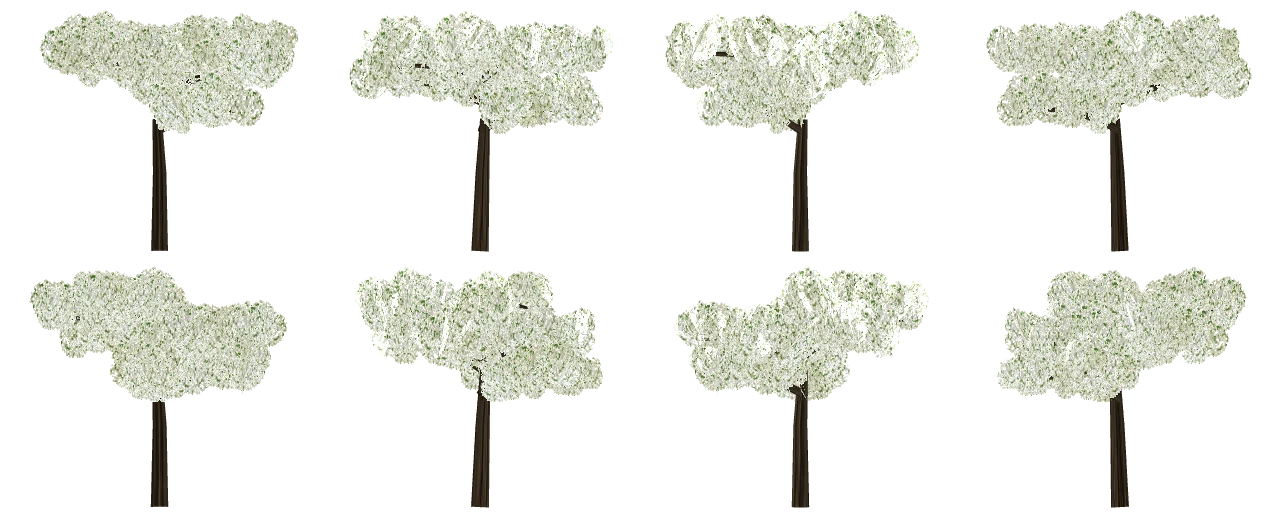
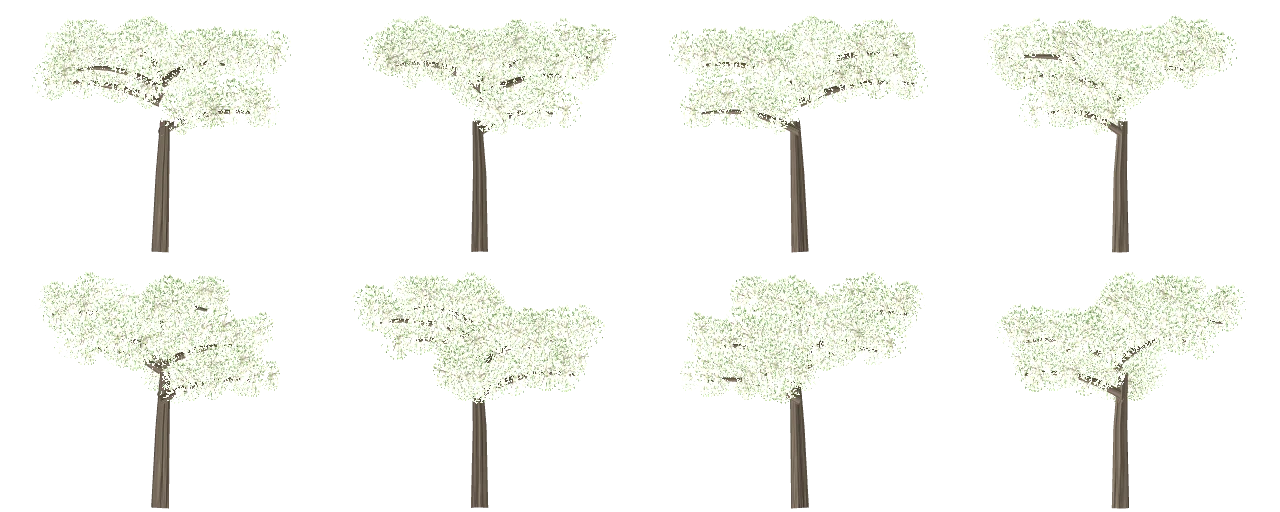
Add files via upload

diff --git a/ko.js b/ko.js
@@ -157,7 +157,7 @@ X.trees=function(A){const T=A.THREE,D=A.D,TR=A.TREES,TH=A.THASH;TR.length=0;TH.c
     D.tl=D.tl.concat(add);console.log('[ko] road screen trees',add.length);}
   for(const q of D.tl){const x=q[0],y=q[1],h=q[2],r=q[3],sp=SP[q[4]],u=hsh(x,y);
     let v=0;if(sp==='palm')v=Math.floor(u*2.999);else if(sp==='monkey')v=r/h>.72?1:0;else v=u<.5?0:1;
-    const t={x,y,gz:A.H(x,y),h,r,fir:sp==='cook',v,sp,hero:sp+v};/* 3D model near the golfer for every species (heroInit) */
+    const t={x,y,gz:A.H(x,y),h,r,fir:sp==='cook',v,sp,hero:sp==='palm'?'palm'+v:null};
     TR.push(t);L[sp].push(t);const R2=Math.ceil(t.r/10)+1,cx=Math.floor(x/10),cy=Math.floor(y/10);
     for(let i=-R2;i<=R2;i++)for(let j=-R2;j<=R2;j++){const k=(cx+i)+','+(cy+j);let a=TH.get(k);if(!a)TH.set(k,a=[]);a.push(t);}}
   const TL=new T.TextureLoader();
@@ -203,13 +203,10 @@ X.farWater=function(w,A){const T=A.THREE,D=A.D,S=D.sea,WM=window.__WM;
   const o=A.outer;if(o)o.position.y=Math.min(o.position.y,D.far.lakeH-3);console.log('[ko] ocean');};
 
 /* ---------- hero palms: full 3D coconut palms (the same models the impostors were baked from) near the golfer ---------- */
-X.heroInit=function(HERO,A){const T=A.THREE;
-  const mk=(me,N)=>{const geo=me.geometry.clone();geo.applyMatrix4(me.matrixWorld);const mt=me.material;mt.userData.lin=1;const M=A.IMC(new T.InstancedMesh(geo,mt,N));M.count=0;M.castShadow=false;M.receiveShadow=true;M.frustumCulled=false;A.scene.add(M);return M;};
-  const add=(tag,g,N,noYaw)=>{g.updateMatrixWorld(true);const ms=[];g.traverse(o=>{if(o.isMesh)ms.push(o);});if(ms.length<2)return;const B=mk(ms[0],N),L=mk(ms[ms.length-1],N),X=ms.slice(1,-1).map(me=>mk(me,N));HERO[tag]={B,L,X:X.length?X:null,h:1,N,k:1,noYaw};};
-  for(let v=0;v<3;v++)add('palm'+v,KOT.palm(T,v),6,true);
-  const MK={monkey:v=>KOT.monkey(T,v),cook:v=>KOT.cook(T,v),broad:v=>KOT.broad(T,v),plum:v=>KOT.plum(T,v),scrub:v=>KOT.broad(T,v,undefined,'scrub')};
-  let n=0;for(const sp in MK)for(let v=0;v<2;v++){try{add(sp+v,MK[sp](v),sp==='scrub'?8:5,false);n++;}catch(e){console.warn('[ko] hero '+sp+v,e);}}
-  console.log('[ko] hero palms ready, other species',n);};
+X.heroInit=function(HERO,A){const T=A.THREE;for(let v=0;v<3;v++){const g=KOT.palm(T,v);g.updateMatrixWorld(true);const ms=[];g.traverse(o=>{if(o.isMesh)ms.push(o);});
+    const mk=(me,N)=>{const geo=me.geometry.clone();geo.applyMatrix4(me.matrixWorld);const mt=me.material;mt.userData.lin=1;const M=A.IMC(new T.InstancedMesh(geo,mt,N));M.count=0;M.castShadow=false;M.receiveShadow=true;M.frustumCulled=false;A.scene.add(M);return M;};
+    HERO['palm'+v]={B:mk(ms[0],6),L:mk(ms[1],6),h:1,N:6,k:1,noYaw:true};}
+  console.log('[ko] hero palms ready');};
 
 /* ---------- ground paint: roads, beaches, red-dirt drainage ditches, the red-tinted cart paths, a tropical grade on the turf ---------- */
 function paintGround(A){const D=A.D,c=A.ctx,m=A.mx,B=A.box,MP=A.MAIN.p;
@@ -282,11 +279,18 @@ function rockGeo(T,seed){const g=new T.IcosahedronGeometry(1,2),p=g.attributes.p
   for(let i=0;i<p.count;i++){const x=p.getX(i),y=p.getY(i),z=p.getZ(i),k=1+.22*Math.sin(x*2.3+o[0])*Math.cos(z*2.1+o[1])+.12*Math.sin(y*4.7+o[2])+.06*Math.sin((x+z)*7.1);p.setXYZ(i,x*k,y*k*.72,z*k);}
   g.computeVertexNormals();return g;}
 function rocks(A,list,cols,rough){if(!list.length)return;const T=A.THREE;const geos=[rockGeo(T,3),rockGeo(T,8),rockGeo(T,13)];
-  const tex=ctex(T,cv(128,128,(x,W,H)=>{const r=KOT.rng(4);x.fillStyle='#fff';x.fillRect(0,0,W,H);for(let i=0;i<900;i++){const k=150+r()*105|0;x.fillStyle='rgba('+k+','+k+','+k+','+(.25+r()*.35)+')';x.fillRect(r()*W,r()*H,1+r()*3,1+r()*3);}}),1);
-  geos.forEach((geo,gi)=>{const L=list.filter((_,i)=>i%3===gi);if(!L.length)return;const M=A.IMC(new T.InstancedMesh(geo,new T.MeshStandardMaterial({map:tex,roughness:rough||.95,metalness:0,flatShading:true}),L.length));
+  const tex=ctex(T,cv(256,256,(x,W,H)=>{const r=KOT.rng(4);x.fillStyle='#e6e2da';x.fillRect(0,0,W,H);
+    for(let i=0;i<240;i++){const v=r();x.fillStyle=v<.4?'rgba(90,84,76,.22)':v<.75?'rgba(255,252,246,.25)':'rgba(150,128,100,.22)';x.beginPath();x.ellipse(r()*W,r()*H,6+r()*24,4+r()*14,r()*3.14,0,7);x.fill();}
+    for(let i=0;i<4200;i++){const v=r();x.fillStyle=v<.5?'rgba(60,56,50,.5)':v<.85?'rgba(255,255,250,.45)':'rgba(130,100,70,.4)';x.fillRect(r()*W,r()*H,1+r()*1.6,1+r()*1.6);}
+    for(let i=0;i<160;i++){x.fillStyle='rgba(50,46,42,.55)';x.beginPath();x.arc(r()*W,r()*H,.8+r()*2.2,0,7);x.fill();}
+    x.strokeStyle='rgba(45,40,36,.5)';x.lineWidth=1;for(let i=0;i<12;i++){let px=r()*W,py=r()*H;x.beginPath();x.moveTo(px,py);for(let k=0;k<6;k++){px+=(r()-.5)*30;py+=(r()-.5)*30;x.lineTo(px,py);}x.stroke();}
+    for(let i=0;i<60;i++){x.fillStyle=r()<.5?'rgba(170,180,130,.5)':'rgba(205,200,160,.45)';x.beginPath();x.arc(r()*W,r()*H,2+r()*6,0,7);x.fill();}}),1);
+  tex.wrapS=tex.wrapT=T.RepeatWrapping;
+  for(const g of geos){const p=g.attributes.position,n=g.attributes.normal,C=[];for(let i=0;i<p.count;i++){const x=p.getX(i),y=p.getY(i),z=p.getZ(i),ny=n.getY(i),nz=.5+.5*Math.sin(x*3.1+z*2.7)*Math.cos(z*2.3-x*1.7),m=Math.min(1,Math.max(0,(ny-.4)/.45))*Math.min(1,Math.max(0,nz*1.6-.3)),wet=y<-.1?.7:1;C.push((1-m*.45)*wet,(1-m*.15)*wet,(1-m*.58)*wet);}g.setAttribute('color',new T.Float32BufferAttribute(C,3));}
+  geos.forEach((geo,gi)=>{const L=list.filter((_,i)=>i%3===gi);if(!L.length)return;const M=A.IMC(new T.InstancedMesh(geo,new T.MeshStandardMaterial({map:tex,roughness:rough||.95,metalness:0,flatShading:true,vertexColors:true,envMapIntensity:.6}),L.length));
     const m=new T.Matrix4(),q=new T.Quaternion(),c=new T.Color();L.forEach((p,i)=>{q.setFromEuler(new T.Euler((hsh(p[0],p[1])-.5)*.4,hsh(p[1],p[0])*6.28,(hsh(p[0]+1,p[1])-.5)*.4));
       m.compose(A.V(p[0],p[1],p[3]),q,new T.Vector3(p[2],p[2]*(p[4]||1),p[2]));M.setMatrixAt(i,m);if(A.addSolid)A.addSolid(p[0],p[1],p[3],p[2]*.95,p[2]*(p[4]||1)*.68);c.set(cols[Math.floor(hsh(p[0]*3,p[1])*cols.length)]);M.setColorAt(i,c);});
-    M.castShadow=true;M.receiveShadow=true;M.frustumCulled=false;M.userData.occluder=true;A.scene.add(M);});}
+    M.castShadow=true;M.receiveShadow=true;M.frustumCulled=false;M.userData.occluder=true;try{A.linearize(M);}catch(e){}A.scene.add(M);});}
 
 /* ---------- tropical plantings: red ti, crotons, yellow-green shrubs (crossed leaf cards) ---------- */
 function plantTex(T,kind){return ctex(T,cv(128,128,(x,W,H)=>{const r=KOT.rng(kind*7+1);const pal=[['#b3162a','#8e1024','#d8283a','#6e0f24','#c21f3a'],['#d9a21e','#b8c43a','#e06a1a','#8fb53a','#c43a24'],['#9ec23a','#b4d24a','#7ea62c','#c8dc5a']][kind];

diff --git a/main.js b/main.js
@@ -274,17 +274,17 @@ function buildCdaDecor(){if(D.trees!=='ponderosa')return;const treesNear=(x,y)=>
   /* spreading juniper: a low mound clothed in a fine scale-leaf foliage texture (blue-green sprays with darker hollows), its outline broken
      up by feathery spray cards, so each bank reads as dense, textured shrub rather than a smooth blob */
   const cvs=(w,h,fn)=>{const c=document.createElement('canvas');c.width=w;c.height=h;fn(c.getContext('2d'),w,h);const t=new THREE.CanvasTexture(c);t.encoding=THREE.sRGBEncoding;t.anisotropy=8;t.anisotropy=4;return t;};
-  const JCOL=['#3f6149','#4d735a','#587f63','#35523d','#6a9274','#2c4533'];
+  const JCOL=['#46704f','#557f60','#628c6c','#3b5c44','#7aa184','#2f4a37','#8fb59a','#6b9473'];
   const spray=(x,cx,cy,len,ang,w)=>{x.save();x.translate(cx,cy);x.rotate(ang);x.lineCap='round';x.lineWidth=w;x.beginPath();x.moveTo(0,0);x.quadraticCurveTo(len*.5,len*.12,len,0);x.stroke();
      for(let k=1;k<6;k++){const t=k/6*len;x.lineWidth=w*.7;x.beginPath();x.moveTo(t,0);x.lineTo(t+len*.14,-len*.12);x.moveTo(t,0);x.lineTo(t+len*.14,len*.12);x.stroke();}x.restore();};
-  const jTex=cvs(512,512,(x,W,H2)=>{x.fillStyle='#1d3024';x.fillRect(0,0,W,H2);let s=5;const r=()=>{s=(s*16807)%2147483647;return s/2147483647;};
+  const jTex=cvs(512,512,(x,W,H2)=>{x.fillStyle='#253d2c';x.fillRect(0,0,W,H2);let s=5;const r=()=>{s=(s*16807)%2147483647;return s/2147483647;};
      for(let i=0;i<5200;i++){const cx=r()*W,cy=r()*H2,len=7+r()*14,ang=r()*6.283;x.strokeStyle=JCOL[Math.floor(r()*JCOL.length)];for(const ox of[-W,0,W])for(const oy of[-H2,0,H2])if(cx+ox>-30&&cx+ox<W+30&&cy+oy>-30&&cy+oy<H2+30)spray(x,cx+ox,cy+oy,len,ang,1.6+r()*1.2);}});
   jTex.wrapS=jTex.wrapT=THREE.RepeatWrapping;jTex.repeat.set(3,2);
   const jCard=cvs(256,256,(x,W,H2)=>{let s=11;const r=()=>{s=(s*16807)%2147483647;return s/2147483647;};for(let i=0;i<110;i++){const a=-Math.PI/2+(r()-.5)*2.4,len=40+r()*80;x.strokeStyle=JCOL[Math.floor(r()*JCOL.length)];spray(x,W/2+(r()-.5)*60,H2-4,len,a,2.4+r()*1.6);}});
-  if(JP.length){const g=new THREE.SphereGeometry(1,12,6,0,6.2832,0,Math.PI*.62),P=g.attributes.position;for(let i=0;i<P.count;i++){const x=P.getX(i),y=P.getY(i),z=P.getZ(i),k=1+.16*Math.sin(x*5.1+z*3.7)*Math.cos(y*4.2)+.08*Math.sin(x*11.3-z*9.1);P.setXYZ(i,x*k,y*k-.18,z*k);}g.computeVertexNormals();
-    const jmat=new THREE.MeshStandardMaterial({color:0xffffff,map:jTex,bumpMap:jTex,bumpScale:.03,roughness:.92,metalness:0});
+  if(JP.length){const g=new THREE.SphereGeometry(1,10,4,0,6.2832,0,Math.PI*.62),P=g.attributes.position;/* 70 triangles (was 132): the skin carries the detail */for(let i=0;i<P.count;i++){const x=P.getX(i),y=P.getY(i),z=P.getZ(i),k=1+.16*Math.sin(x*5.1+z*3.7)*Math.cos(y*4.2)+.08*Math.sin(x*11.3-z*9.1);P.setXYZ(i,x*k,y*k-.18,z*k);}g.computeVertexNormals();{const C=[];for(let i=0;i<P.count;i++){const y=P.getY(i),t=Math.max(0,Math.min(1,(y+.18)/.9));const v=.58+.5*t;C.push(v*.97,v,v*.95);}g.setAttribute('color',new THREE.Float32BufferAttribute(C,3));}/* darker hollows at the base, sunlit crown */
+    const jmat=new THREE.MeshStandardMaterial({color:0xffffff,map:jTex,bumpMap:jTex,bumpScale:.03,roughness:.92,metalness:0,vertexColors:true});
     const jm=IMC(new THREE.InstancedMesh(g,jmat,JP.length)),m=new THREE.Matrix4(),q=new THREE.Quaternion(),c=new THREE.Color();
-    JP.forEach((p,i)=>{const s=p[2];q.setFromAxisAngle(new THREE.Vector3(0,1,0),R()*6.28);m.compose(V(p[0],p[1],H(p[0],p[1])-.1*s),q,new THREE.Vector3(s*1.15,s*.2,s*1.15));jm.setMatrixAt(i,m);c.setHSL(.3+R()*.06,.22+R()*.15,.5+R()*.14);jm.setColorAt(i,c);});
+    JP.forEach((p,i)=>{const s=p[2];q.setFromAxisAngle(new THREE.Vector3(0,1,0),R()*6.28);m.compose(V(p[0],p[1],H(p[0],p[1])-.1*s),q,new THREE.Vector3(s*1.12,s*.3,s*1.12));jm.setMatrixAt(i,m);c.setHSL(.3+R()*.06,.2+R()*.15,.58+R()*.14);jm.setColorAt(i,c);});
     jm.castShadow=true;jm.receiveShadow=true;jm.frustumCulled=false;linearize(jm);scene.add(jm);
     /* spray cards round each mound's edge and a few on top */
     if(window.__MKIMP){try{const jt=new THREE.TextureLoader().load('juniperAtlas.webp');jt.encoding=THREE.sRGBEncoding;jt.anisotropy=4;

diff --git a/ag.js b/ag.js
@@ -36,6 +36,14 @@ KOT.barkTex=function(T,kind){return canvasTex(T,128,256,(x,W,H)=>{const r=rng(ki
 KOT.clusterTex=function(T,kind){return canvasTex(T,256,256,(x,W,H)=>{const r=rng(kind.length*17+3);
   const pal={lob:['#2f4a1f','#385626','#2a4219','#41612a','#33501f'],dogw:['#f4f2ea','#ffffff','#ece9de','#f7f4ec','#5f8a3a'],dfir:['#2b4826','#34552c','#253f21','#3c5f31','#2f4e29'],monkey:['#3d6b2b','#4a7a31','#2f5a22','#56863a','#35612a'],broad:['#4f7d34','#5d8c3c','#426f2c','#6a9844','#3b6528'],cook:['#2d5230','#35603a','#274a2a','#3f6b40'],scrub:['#5a7a3a','#6a8a44','#4a6a30','#77924c']}[kind];
   const n=kind==='monkey'?520:(kind==='cook'||kind==='dfir'||kind==='lob')?760:kind==='scrub'?900:kind==='dogw'?420:300;
+  if(kind==='dogw'){/* flowering dogwood: open flowers of four notched white bracts round a green-gold eye, a few dark leaves and twigs between */
+    x.strokeStyle='#4a3a2c';x.lineCap='round';for(let i=0;i<26;i++){const a=r()*6.283,l=W*(.18+r()*.26);x.lineWidth=1+r()*1.4;x.beginPath();x.moveTo(W/2,H/2);x.lineTo(W/2+Math.cos(a)*l,H/2+Math.sin(a)*l*.9);x.stroke();}
+    for(let i=0;i<70;i++){const a=r()*6.283,rr=Math.pow(r(),.6)*W*.44;x.save();x.translate(W/2+Math.cos(a)*rr,H/2+Math.sin(a)*rr*.9);x.rotate(r()*6.283);x.fillStyle=['#4f7a34','#3e6a2a','#5d8a3c'][Math.floor(r()*3)];x.beginPath();x.ellipse(0,0,7,3.4,0,0,7);x.fill();x.restore();}
+    for(let i=0;i<150;i++){const a=r()*6.283,rr=Math.pow(r(),.55)*W*.45,cx=W/2+Math.cos(a)*rr,cy=H/2+Math.sin(a)*rr*.9,sz=4.2+r()*2.6,rot=r()*1.57;x.save();x.translate(cx,cy);x.rotate(rot);
+      const tone=['#ffffff','#f7f5ee','#efece2','#fbfaf4'][Math.floor(r()*4)];for(let k=0;k<4;k++){x.save();x.rotate(k*Math.PI/2);x.fillStyle=tone;x.beginPath();x.moveTo(0,0);x.quadraticCurveTo(sz*.9,-sz*.55,sz*1.25,-.15*sz);x.lineTo(sz*1.05,0);x.lineTo(sz*1.25,.15*sz);x.quadraticCurveTo(sz*.9,sz*.55,0,0);x.fill();
+        x.fillStyle='rgba(150,110,90,.55)';x.beginPath();x.arc(sz*1.12,0,sz*.13,0,7);x.fill();x.restore();}
+      x.fillStyle=r()<.5?'#b5b04a':'#9aa63e';x.beginPath();x.arc(0,0,sz*.28,0,7);x.fill();x.strokeStyle='rgba(120,120,105,.35)';x.lineWidth=.7;x.beginPath();x.moveTo(-sz*1.1,0);x.lineTo(sz*1.1,0);x.moveTo(0,-sz*1.1);x.lineTo(0,sz*1.1);x.stroke();x.restore();}
+    return;}
   for(let i=0;i<n;i++){const a=r()*6.283,rr=Math.pow(r(),.6)*W*.46,cx=W/2+Math.cos(a)*rr,cy=H/2+Math.sin(a)*rr*.9;x.save();x.translate(cx,cy);x.rotate(r()*6.283);
     x.fillStyle=pal[Math.floor(r()*pal.length)];
     if(kind==='cook'||kind==='dfir'||kind==='lob'){x.fillRect(-7,-1,14,2);x.fillRect(-1,-5,2,10);}
